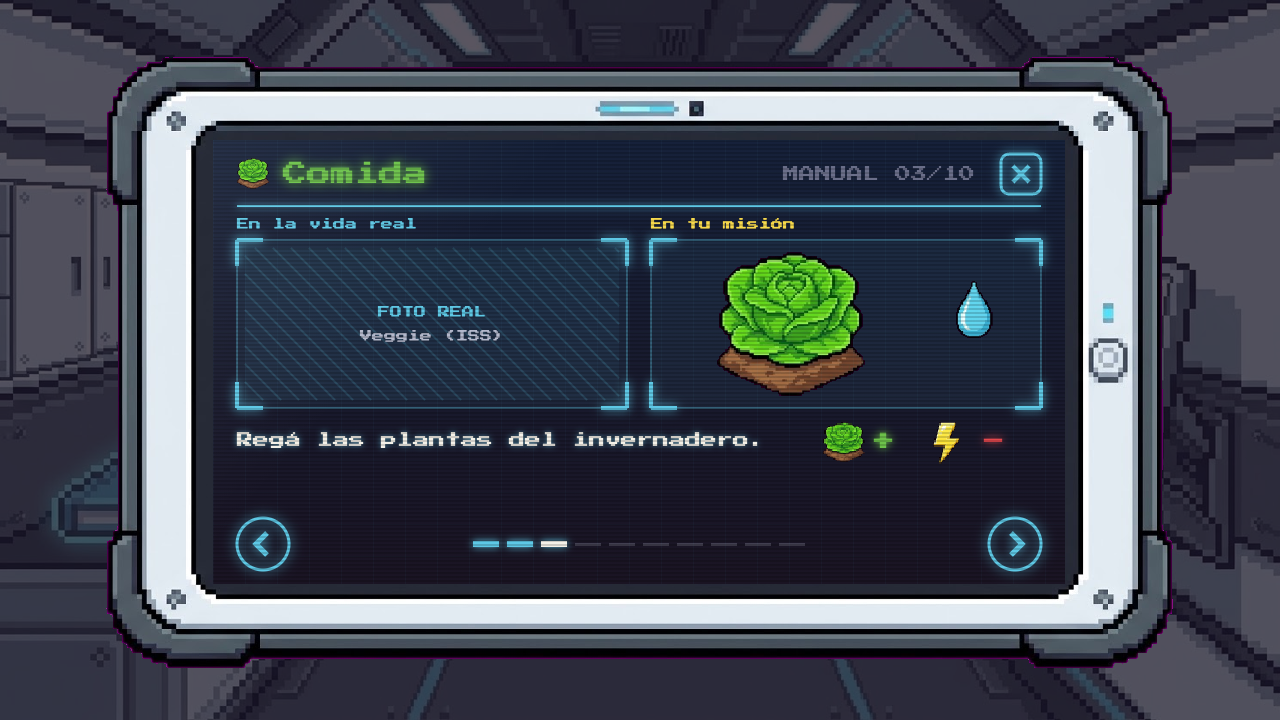
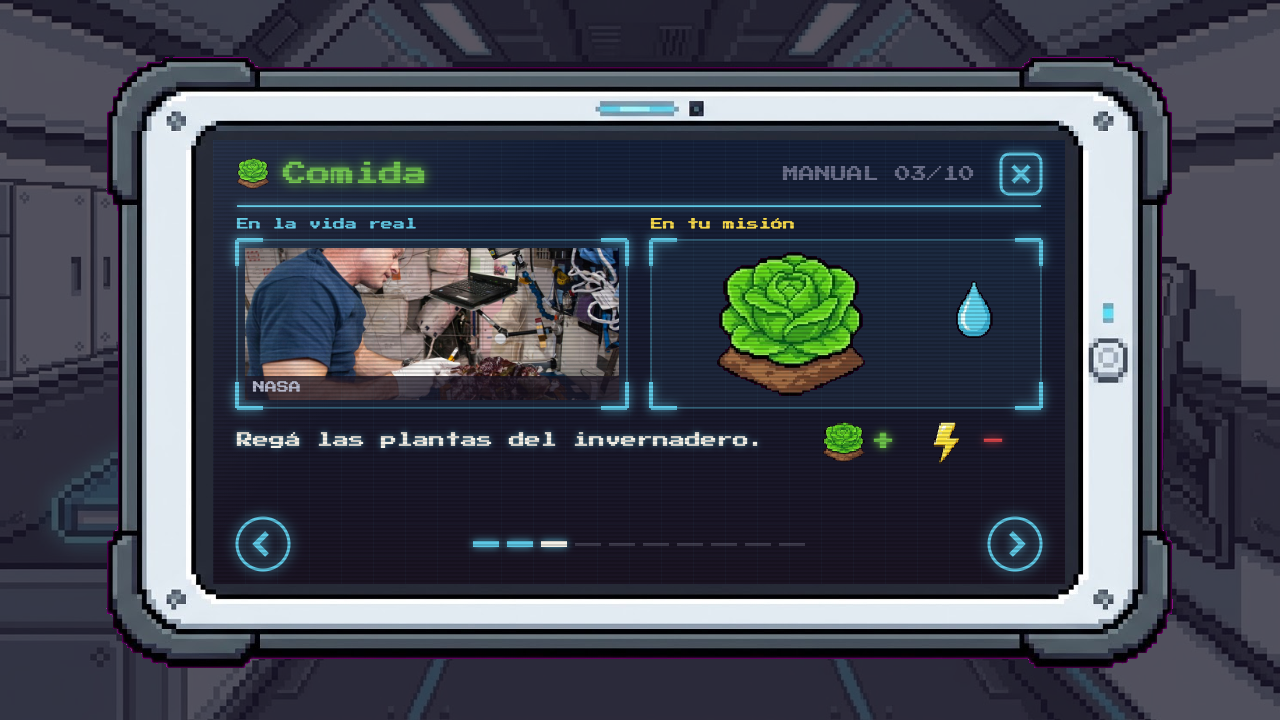
Fotos reales de NASA para la cabina, la tablet y el aterrizaje por destino
- Marte entero (PIA00003), MOXIE (PIA24203), Veggie (iss040e009116) y la selfie de Perseverance (PIA24542), de la API oficial images.nasa.gov, registradas en DATA_SOURCES
- Páginas de la tablet con foto real y crédito
- El aterrizaje parte de Marte entero y termina en la foto del destino elegido

Changed region(s): [[0.1875, 0.3361, 0.5, 0.5806]]

diff --git a/docs/DATA_SOURCES.md b/docs/DATA_SOURCES.md
@@ -68,6 +68,10 @@ La base del juego es **ficción**: es una misión tripulada imaginaria del futur
 | `public/assets/nasa/olympus-mons.jpg` | Olympus Mons visto desde arriba, mosaico de los Viking (recortada) | NASA/JPL/USGS | Dominio público (NASA/JPL) | [PIA00300](https://photojournal.jpl.nasa.gov/catalog/PIA00300) |
 | `public/assets/nasa/north-pole.jpg` | Casquete polar norte en verano, Mars Global Surveyor (recortada) | NASA/JPL/MSSS | Dominio público (NASA/JPL) | [PIA02800](https://photojournal.jpl.nasa.gov/catalog/PIA02800) |
 | `public/assets/nasa/valles-marineris.jpg` | Valles Marineris, mosaico de los Viking (recortada) | NASA/JPL/USGS | Dominio público (NASA/JPL) | [PIA00422](https://photojournal.jpl.nasa.gov/catalog/PIA00422) |
+| `public/assets/nasa/marte-valles-marineris-hemisferio.jpg` | Marte entero: hemisferio de Valles Marineris, mosaico de los Viking (achicada a 960 px). Para la ventana de la cabina (spec 18) | NASA/JPL/USGS | Dominio público (NASA/JPL) | [PIA00003](https://images.nasa.gov/details/PIA00003) |
+| `public/assets/nasa/moxie-dentro-de-perseverance.jpg` | MOXIE (dorado) ya instalado dentro del rover Perseverance (achicada a 960 px). Tablet, página de oxígeno | NASA/JPL-Caltech | Dominio público (NASA/JPL) | [PIA24203](https://images.nasa.gov/details/PIA24203) |
+| `public/assets/nasa/veggie-cosecha-lechuga.jpg` | El astronauta Steve Swanson cosecha lechuga romana roja crecida en Veggie, Estación Espacial Internacional, 10/06/2014 (achicada a 960 px). Tablet, página de comida | NASA | Dominio público (NASA) | [iss040e009116](https://images.nasa.gov/details/iss040e009116) |
+| `public/assets/nasa/perseverance-selfie-ingenuity.jpg` | Selfie de Perseverance con el helicóptero Ingenuity, sol 46 (06/04/2021) (achicada a 960 px). Tablet, página del rover | NASA/JPL-Caltech/MSSS | Dominio público (NASA/JPL) | [PIA24542](https://images.nasa.gov/details/PIA24542) |
 | `public/assets/sprites/biomas/sala-*-jezero.png` | Jezero desde el suelo, Perseverance (recortada, vista por la ventana de cada sala) | NASA/JPL-Caltech/ASU/MSSS | Dominio público (NASA/JPL) | [PIA24921](https://photojournal.jpl.nasa.gov/catalog/PIA24921) |
 | `public/assets/sprites/biomas/sala-*-gale.png` | Monte Sharp, dentro del cráter Gale, visto por Curiosity (recortada, vista por la ventana de cada sala) | NASA/JPL-Caltech/MSSS | Dominio público (NASA/JPL) | [PIA16099](https://photojournal.jpl.nasa.gov/catalog/PIA16099) |
 | `public/assets/sprites/biomas/sala-*-north-pole.png` | Llanura ártica de Vastitas Borealis (~68°N) vista por Phoenix, cerca del casquete pero no encima (recortada, vista por la ventana de cada sala) | NASA/JPL-Caltech/Univ. of Arizona/Texas A&M | Dominio público (NASA/JPL) | [PIA10713](https://photojournal.jpl.nasa.gov/catalog/PIA10713) |

diff --git a/docs/specs/18-intro-cabina-manual.md b/docs/specs/18-intro-cabina-manual.md
@@ -117,8 +117,9 @@ Reemplaza la UI anterior de selección. El monitor es un objeto de la nave y abr
 ## Escena 5 — Aterrizaje
 Transición breve propuesta: «Destino confirmado: [nombre del lugar]. ¡Prepará a tu tripulación!» Luego se inicia la misión correspondiente mediante la navegación acordada con el equipo.
 
-Propuesta visual (2026-11-15, maqueta: `docs/arte/bocetos/cabina/aterrizaje/maqueta-aterrizaje.gif`), unos 5 segundos, vista desde la cabina:
+Propuesta visual (2026-11-15, maquetas: `docs/arte/bocetos/cabina/aterrizaje/aterrizaje-jezero.gif` y `aterrizaje-olympus-mons.gif`), unos 5 segundos, vista desde la cabina:
 - Las dos astronautas van **sentadas** en los asientos de piloto, de espaldas (guía a la izquierda, jugadora violeta a la derecha). Fondo: `docs/arte/bocetos/cabina/cabina-aterrizaje.png`. Conviene recortarlas como sprites para que tiemblen un poco más que la nave.
+- **El aterrizaje coincide con el destino elegido en el monitor**: la ventana empieza con Marte entero (`public/assets/nasa/marte-valles-marineris-hemisferio.jpg`, la misma foto de la ventana de la cabina), se acerca y pasa a la foto real de ese destino (`public/assets/nasa/<id>.jpg`). En Olympus Mons y Valles Marineris la foto es desde órbita, lo que encaja con venir bajando.
 - La ventana muestra la **foto real del destino** que se agranda, como si el suelo se acercara. La foto **siempre cubre toda la ventana** (escala tipo "cover"): nunca más chica que el vidrio, sin bordes.
 - **La cámara se mete en la nave**: toda la cabina se agranda hacia la ventana durante el descenso.
 1. Entrada: brillo naranja de calor sobre toda la ventana que se apaga; temblor leve.
